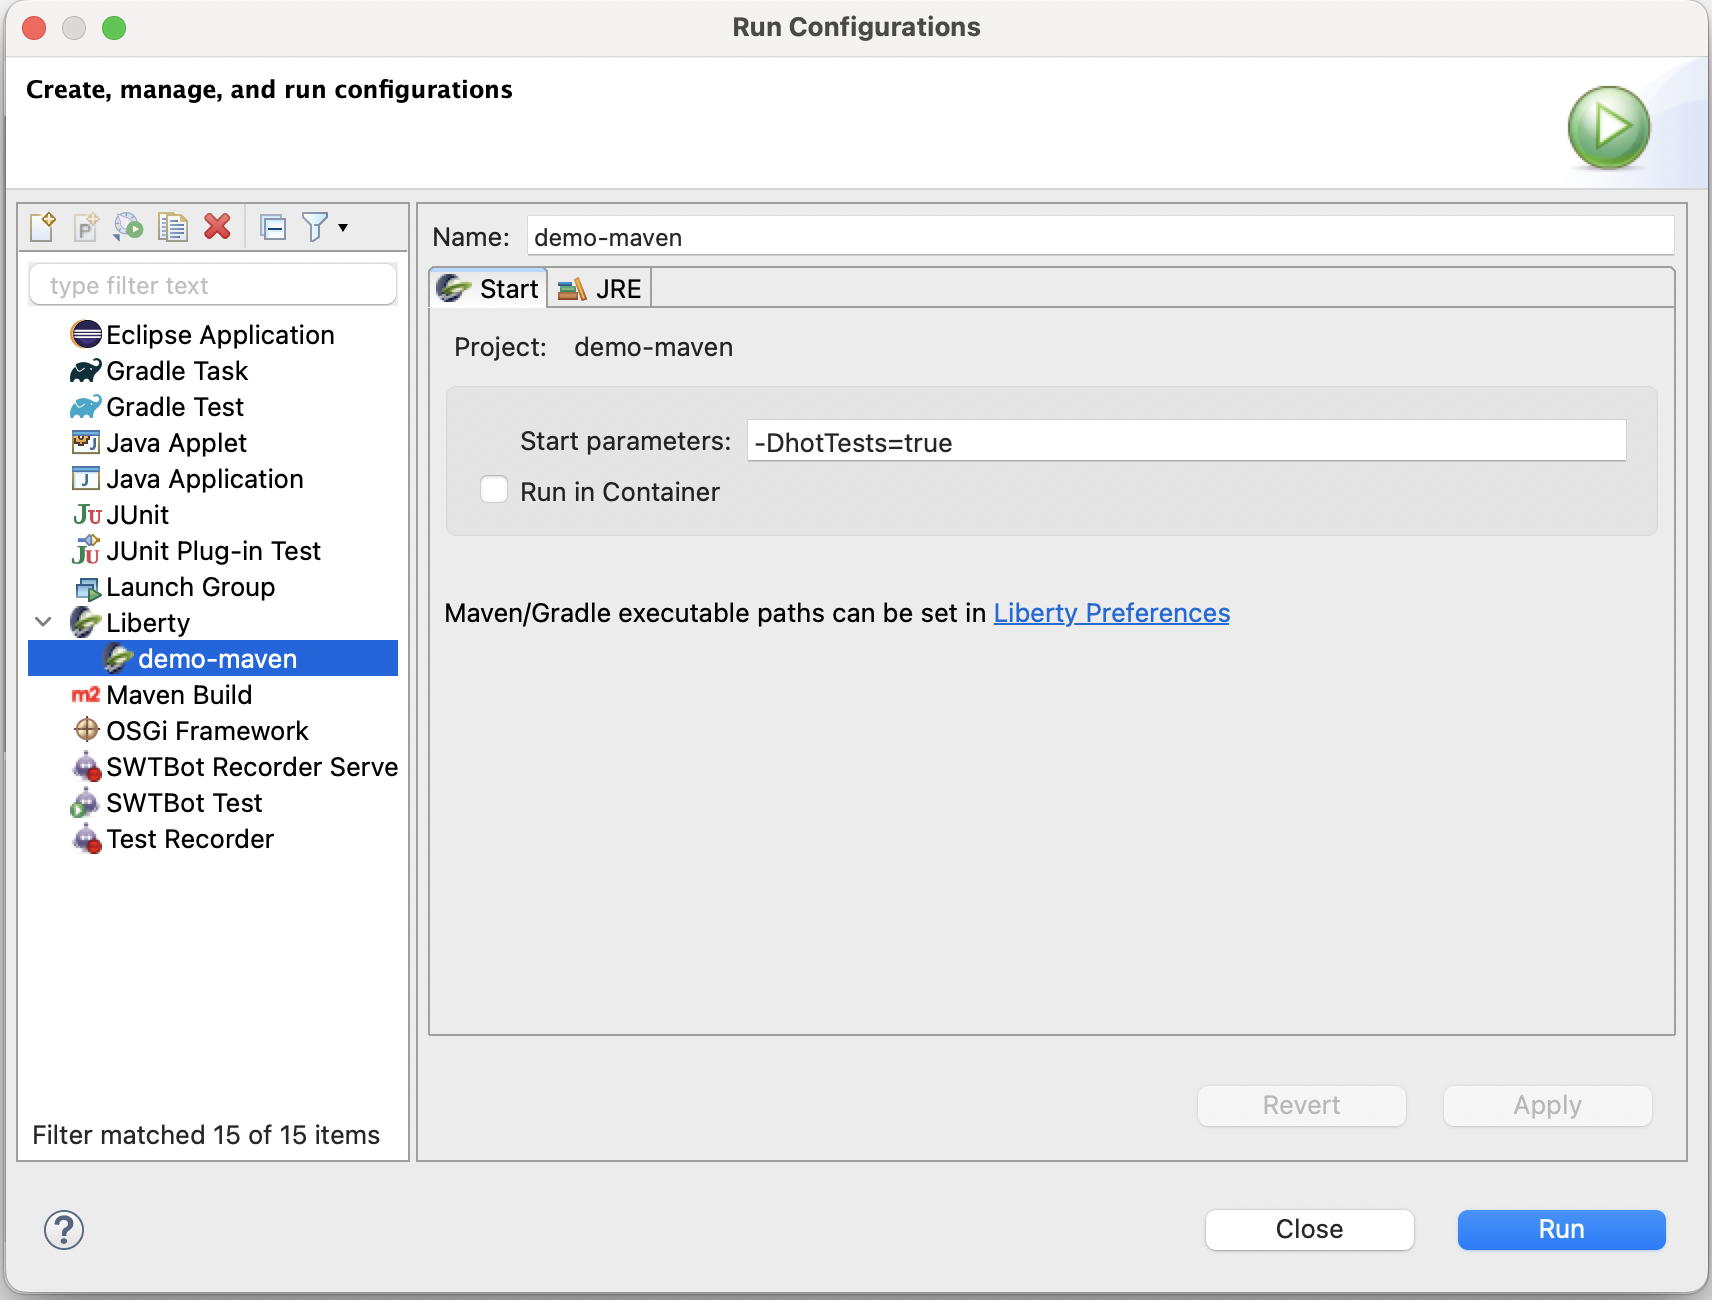
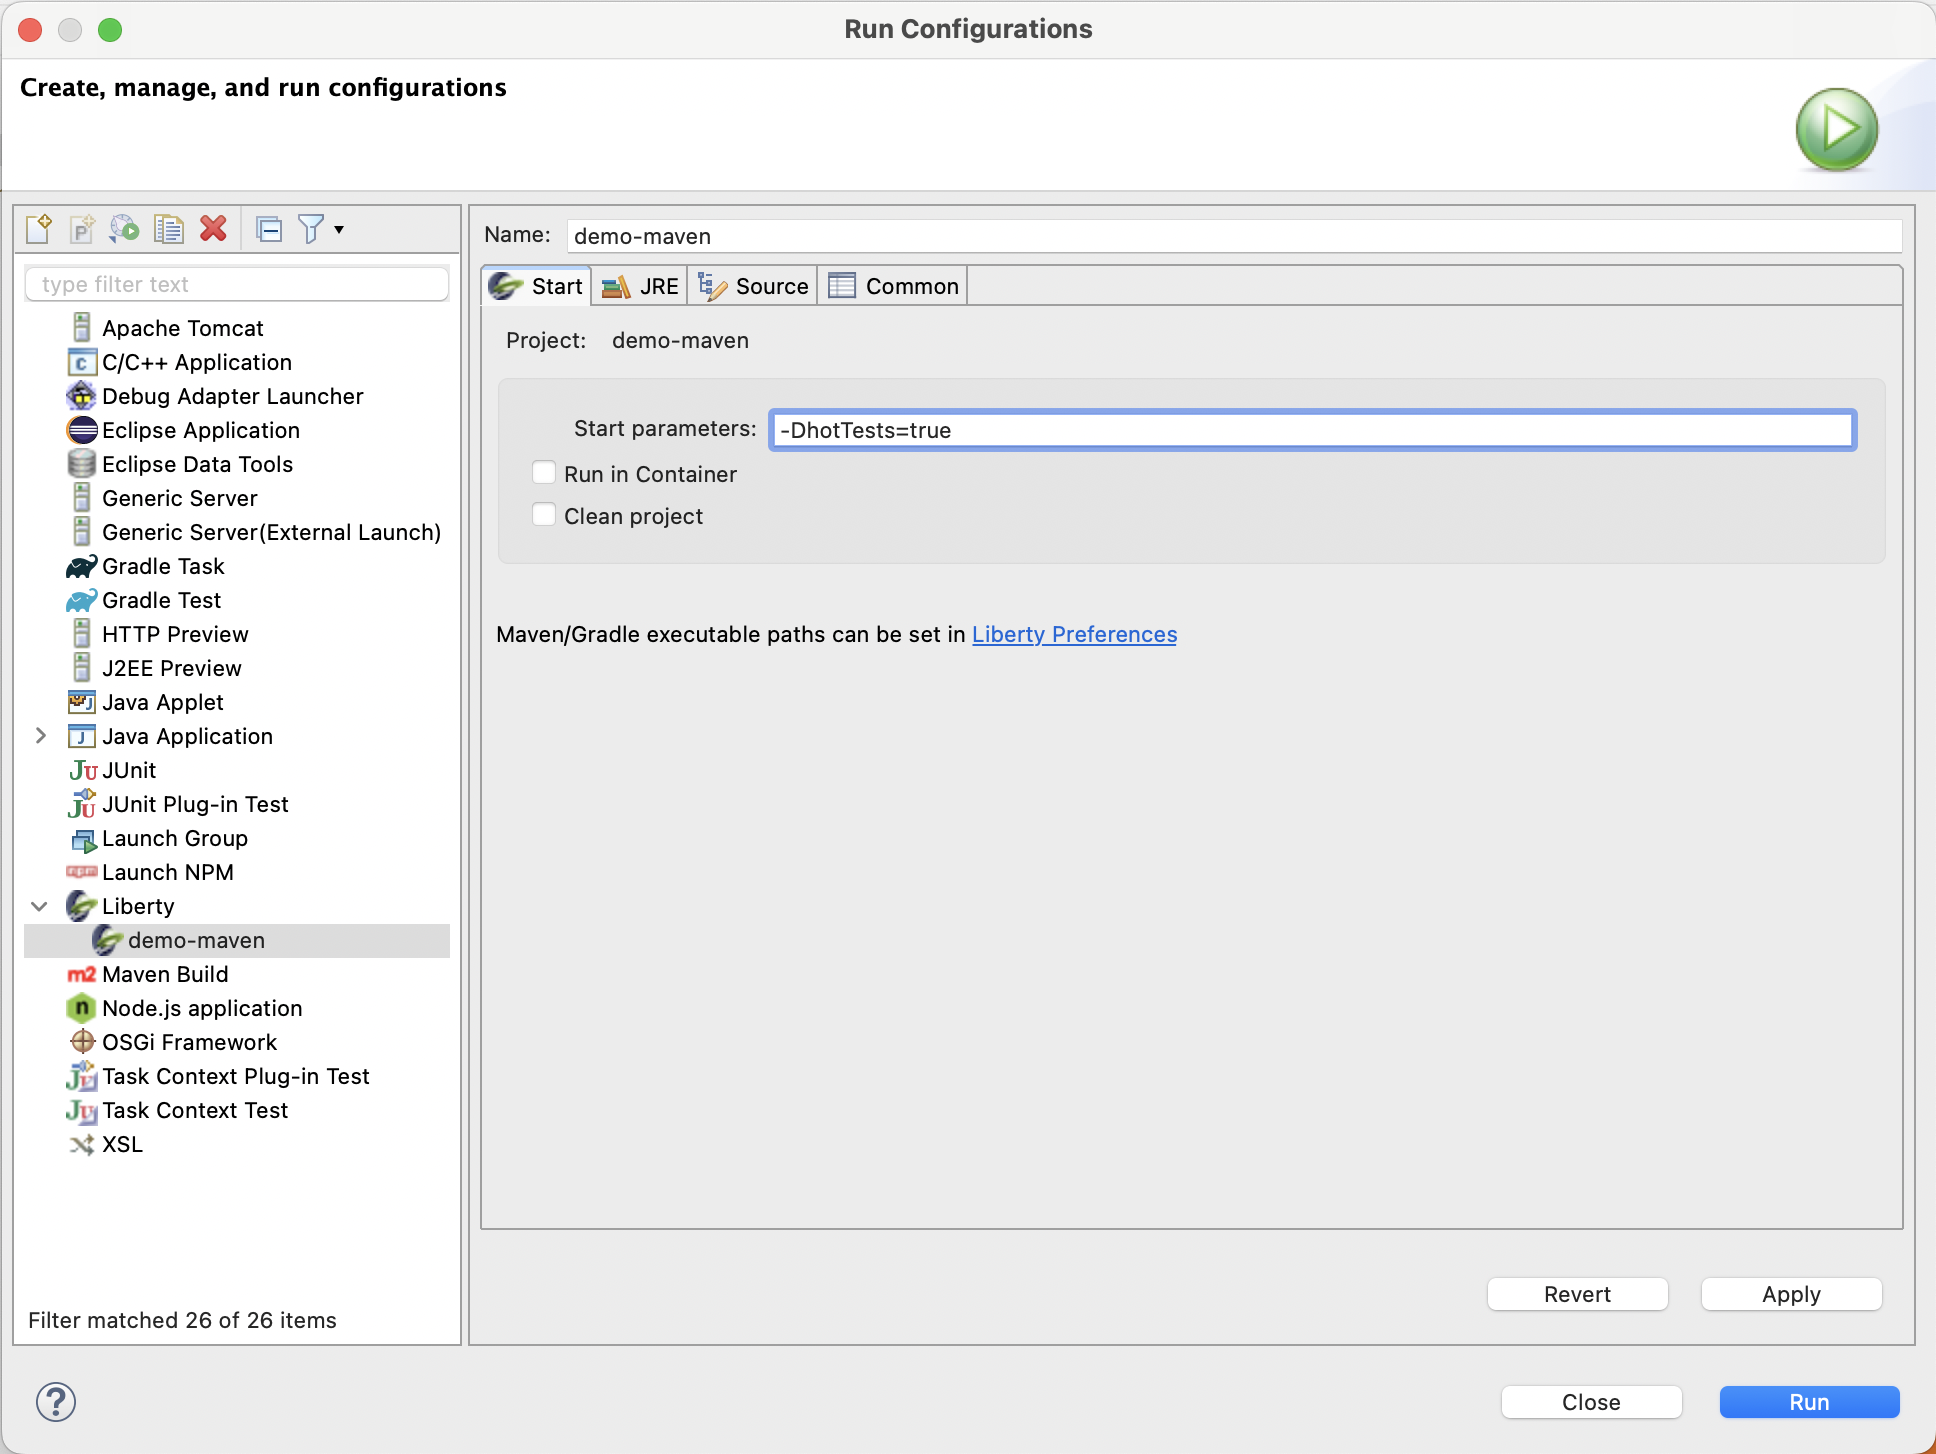
Doc updates for 25.0.6

diff --git a/docs/user-guide.md b/docs/user-guide.md
@@ -49,6 +49,7 @@ This guide provides detailed instructions on how to use Liberty Tools for the Ec
 |  24.0.9       | 2024-06 - Eclipse v4.32 |
 |  24.0.12      | 2024-09 - Eclipse v4.33 |
 |  25.0.3       | 2024-12 - Eclipse v4.34 |
+|  25.0.6       | 2025-03 - Eclipse v4.35 |
 
 **NOTE:** Tested with each of the `Eclipse IDE for Enterprise Java and Web Developers` and `Eclipse IDE for Java Developers` packages
 
@@ -149,7 +150,7 @@ A new Console opens to run the application in dev mode.
 
 To start your application in dev mode with customizations, you can either right-click on the application listed in the Liberty dashboard and click the  **Start...** action, or you can right-click the application in the project explorer, select **Run As** from the menu, and click the **Liberty Start...** launch shortcut. This action opens the Liberty configuration dialog that provides two customization tabs: **Start** and **JRE**.
 
-Use the **Start** tab to customize how and where dev mode is run. On this tab, you can specify parameters such as `-DhotTests=true` and whether or not you want your application to run in a container.
+Use the **Start** tab to customize how and where dev mode is run. On this tab, you can specify parameters such as `-DhotTests=true` and whether or not you want your application to run in a container. You can also specify if you want to run a clean before building the application. 
 
 ![Liberty configuration dialog start tab](images/maven-runConfigurationsDialogStartTab.png)
 
@@ -242,6 +243,13 @@ Additionally, if you do not start your application with the Debug option, you ca
 From the Debug View in the Debug Perspective, right-click on the launched application and select **Connect Liberty Debugger**. 
 
 ![Connect Liberty Debugger action](images/maven-ConnectLibertyDebuggerAction.png)
+
+### Enhanced application monitoring
+
+The Liberty Debugger is automatically launched with enhanced application monitoring. When this happens, application monitoring is disabled in the Liberty runtime and updates are automatically hot swapped into the running JVM using Eclipse's Hot Code Replace (HCR) functionality. 
+This provides a significant performance improvement, removing the need to restart the application on every code change. For changes that cannot be hot swapped due to JVM limitations, an option to restart the server is presented. 
+
+Note: For multi-module applications, the application must be launched from the module that contains the liberty server configuration. 
 
 ## Manually adding the Liberty nature to a project
 

diff --git a/CHANGELOG.md b/CHANGELOG.md
@@ -1,9 +1,18 @@
 # Liberty Tools Eclipse Changelog
 
+## 25.0.6 [changes](https://github.com/OpenLiberty/liberty-tools-eclipse/milestone/11) / [release](https://github.com/OpenLiberty/liberty-tools-eclipse/releases/tag/liberty-tools-25.0.6.202506241559) (June 24, 2025)
+
+### Eclipse Platform target release upgrade
+ * 4.35 (2025-03)
+
+### Enhancements
+ * Enhanced debug monitoring: https://github.com/OpenLiberty/liberty-tools-eclipse/issues/557
+ * Add a "clean" option when starting an application: https://github.com/OpenLiberty/liberty-tools-eclipse/issues/239
+
 ## 25.0.3 [changes](https://github.com/OpenLiberty/liberty-tools-eclipse/milestone/10) / [release](https://github.com/OpenLiberty/liberty-tools-eclipse/releases/tag/liberty-tools-25.0.3.202503281600) (March 28, 2025)
 
 ### Eclipse Platform target release upgrade
- * 4.34 (2025-03)
+ * 4.34 (2024-12)
 
 ### Dependency Upgrades
  * Liberty Config Language Server (LCLS) => 2.2.1
